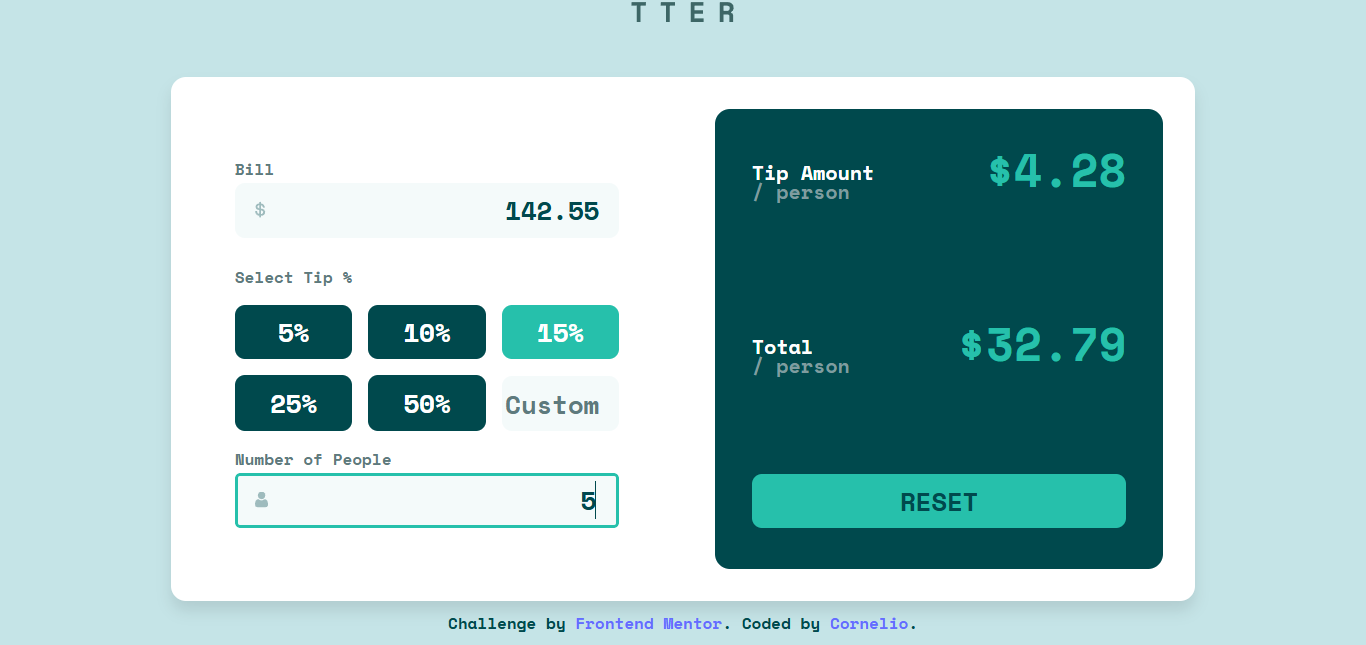
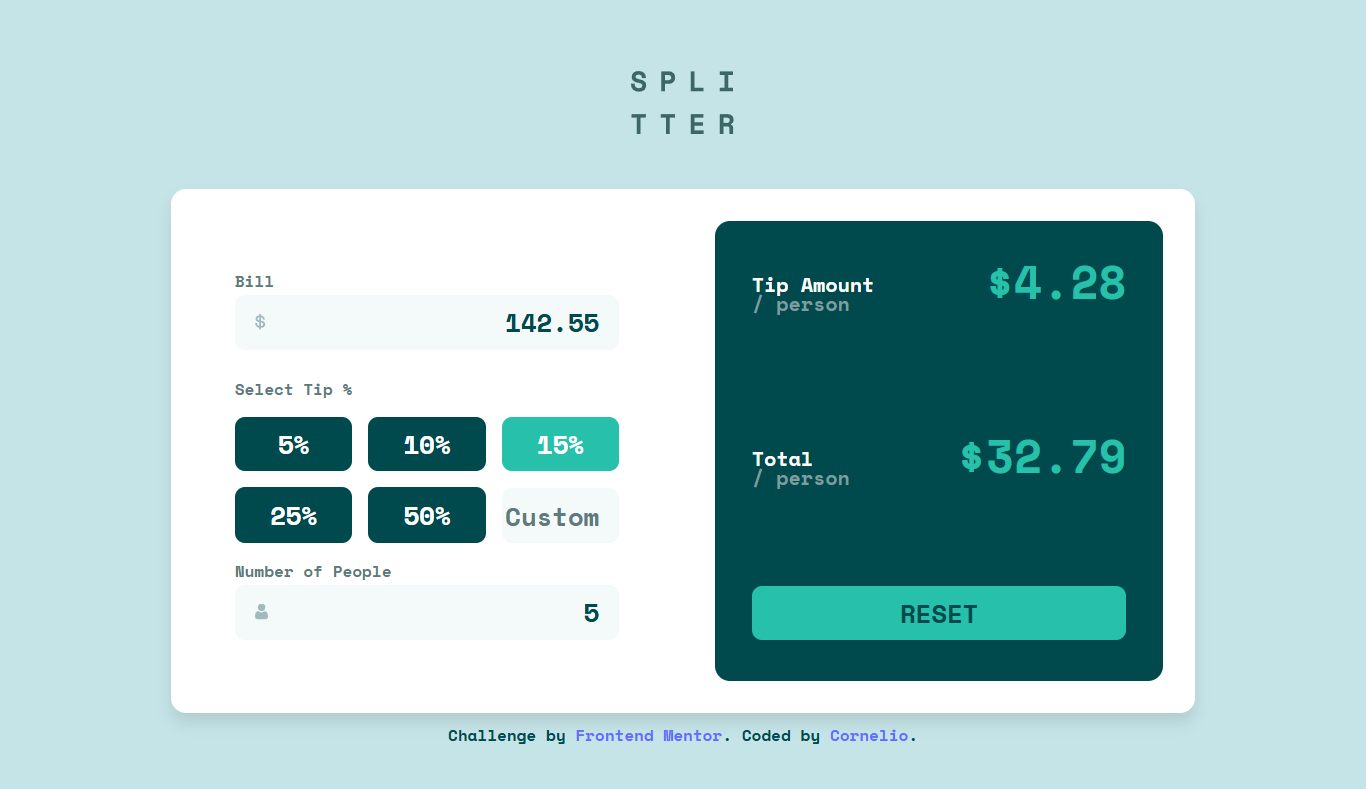
update screenshot

diff --git a/src/style.css b/src/style.css
@@ -13,15 +13,14 @@
  
 }
 #app{
-  margin: 0 auto;
   max-width: 1440px;
-  padding: 0 1rem;
+  padding: 2rem;
   text-align: center;
-  align-content: center;
   place-items: center;
   align-items: flex-start;
+  margin-left: auto;
+  margin-right: auto;
 }
-
 *,
 *::before,
 *::after {
@@ -32,10 +31,9 @@
   transform: scale(1);
   transform-origin: 0 0;
 }
-
 *{
   margin: 0;
-  
+  padding: 0;
 }
 a {
   color: #646cff;
@@ -47,6 +45,7 @@ a:hover {
 html:focus-within {
     scroll-behavior: smooth;
 }
+
 html{
   box-sizing: border-box;
  -webkit-font-smoothing: antialiased;
